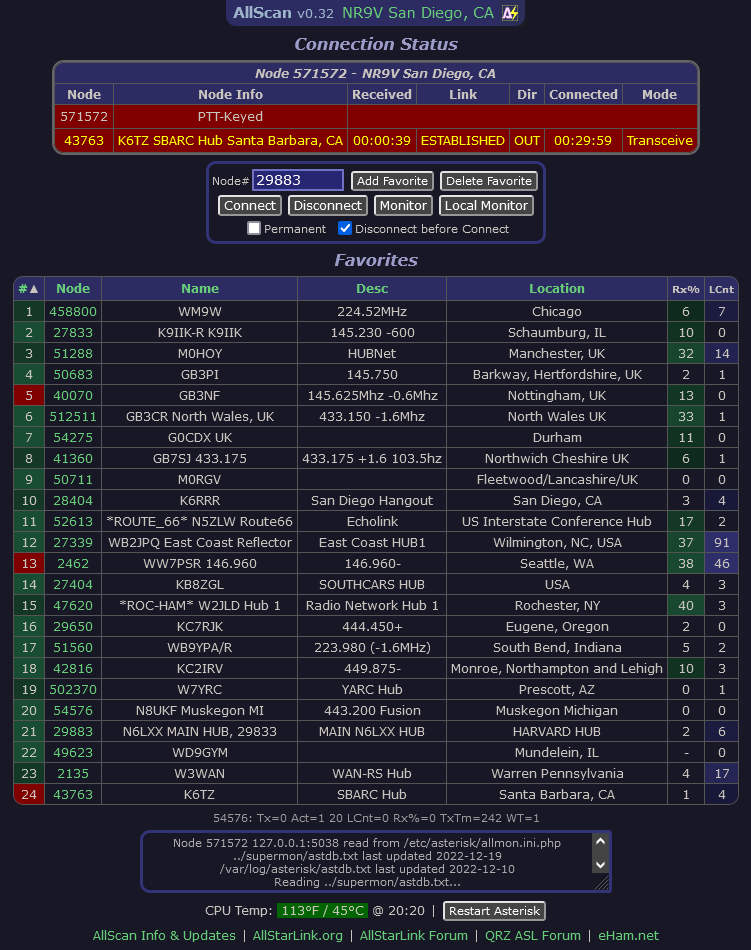
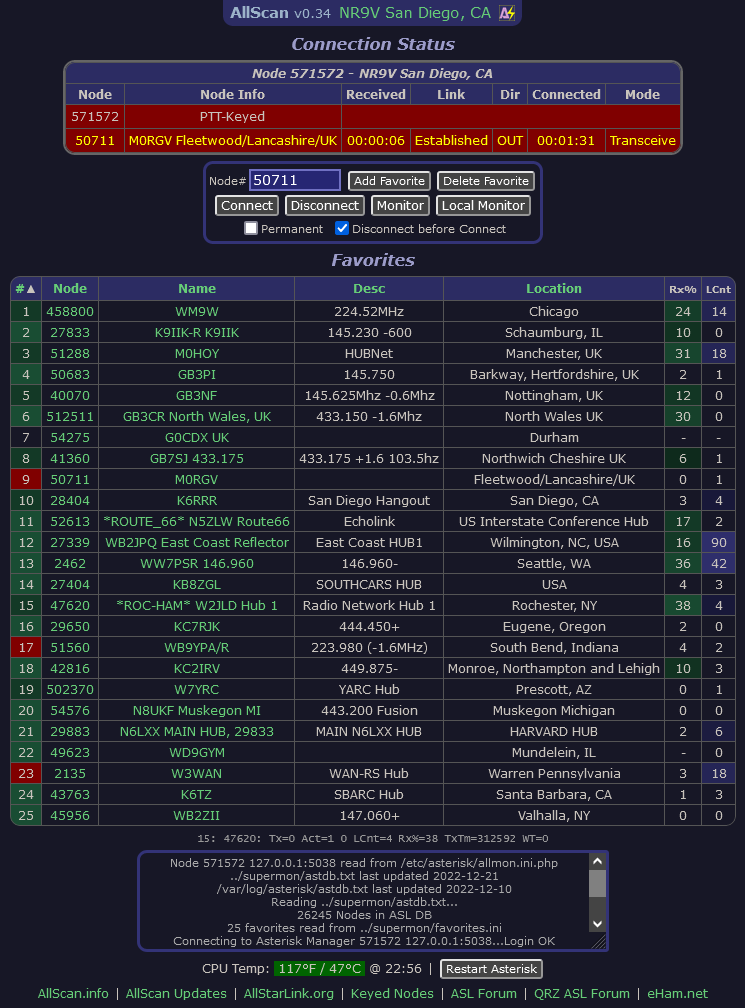
Minor optimizations. Fix issue where column sort links could contain previous post parms.

diff --git a/js/main.js b/js/main.js
@@ -49,7 +49,6 @@ function getStats() {
 			}
 			favsCnt = rnodes.length;
 			if(favsCnt == 0) {
-				//statsTmr = setTimeout(getStats, 15000);
 				return;
 			}
 			if(statsIdx >= favsCnt)
@@ -74,7 +73,7 @@ function xhttpStatsInit(url, parms) {
 function handleStatsResponse() {
 	if(xhs.readyState === 4) {
 		if(xhs.status === 200) {
-			//statMsg('statsResponse: ' + xhs.responseText);
+			// statMsg('statsResponse: ' + xhs.responseText);
 			var resp = JSON.parse(xhs.responseText);
 			// Data structure: event=stats; status=LogMsg; stats=statsStruct
 			var e = resp.event;
@@ -163,7 +162,7 @@ function handleOfflineEvent() {
 	}
 }
 function reloadPage() {
-	// Verify location valid before reloading
+	// Verify location before reload
 	if(rldRetries == 0)
 		statMsg('Verifying node is accessible...');
 	var request = new XMLHttpRequest();

diff --git a/css/main.css b/css/main.css
@@ -149,10 +149,10 @@ width:6em;
 }
 #statmsg {
 display:inline-block;
-margin:3px;
+margin:2px;
 min-width:460px;
 max-width:750px;
-height:4.4em;
+height:4.5em;
 font-size:0.9em;
 line-height:1.2;
 overflow-y:scroll;
@@ -164,6 +164,7 @@ color:#999;
 margin:0.25em;
 font-size:0.9em;
 line-height:1.2;
+font-family:"Lucida Console",Courier,monospace;
 }
 
 table {

diff --git a/index.php b/index.php
@@ -31,6 +31,7 @@ if(!empty($nodes) && !empty($hosts)) {
 	$parms = getRequestParms();
 	if(isset($_POST['Submit']) && $astdb !== false) {
 		processForm($parms, $msg);
+		unset($_POST, $parms);
 	}
 }
 
@@ -47,7 +48,7 @@ if($globalInc) {
 // Output header
 echo 	"<body$onLoad>" . NL
 	.	'<header>' . NL
-	.	$html->a('/allscan/', null, 'AllScan', 'logo') . " <small>$AllScanVersion</small>" . ENSP
+	.	$html->a(getScriptName(), null, 'AllScan', 'logo') . " <small>$AllScanVersion</small>" . ENSP
 	.	$html->a('#', null, $title, 'title') . ENSP
 	.	'<span id="hb"><img src="AllScan.png" width=16 height=16 alt="*"></span>' . NL
 	.	'</header>' . NL . BR;
@@ -192,6 +193,10 @@ if(empty($favList)) {
 		$nodeNumAttr = ['1' => 'class="nodeNum" onClick="setNodeBox(' . $f[1] . ')"'];
 		// Link name to ASL stats page for node
 		$f[2] = $html->a("http://stats.allstarlink.org/stats/" . $f[1], null, $f[2], null, 'stats');
+		if($f[3] == '')
+			$f[3] = '-';
+		if($f[4] == '')
+			$f[4] = '-';
 		$out .= $html->tableRow($f, null, null, false, $nodeNumAttr);
 	}
 	$out .= $html->tableClose();

diff --git a/astapi/server.php b/astapi/server.php
@@ -98,7 +98,7 @@ while(1) {
 			// Array key of remote_nodes is not node number to prevent javascript (for in) sorting
 			$current[$node]['remote_nodes'][$i]['node'] = $arr['node'];
 			$current[$node]['remote_nodes'][$i]['info'] = $arr['info'];
-			$current[$node]['remote_nodes'][$i]['link'] = $arr['link'];
+			$current[$node]['remote_nodes'][$i]['link'] = ucwords(strtolower($arr['link']));
 			$current[$node]['remote_nodes'][$i]['ip'] = $arr['ip'];
 			$current[$node]['remote_nodes'][$i]['direction'] = $arr['direction'];
 			$current[$node]['remote_nodes'][$i]['keyed'] = $arr['keyed'];

diff --git a/stats/stats.php b/stats/stats.php
@@ -40,6 +40,11 @@ foreach($nodes as $n) {
 	}
 	$resp = json_decode($data);
 	$s = parseStats($resp, $time);
+	if(!isset($s->node)) {
+		$s->node = $n;
+		$s->active = $s->keyed = 0;
+		$s->busyPct = $s->linkCnt = $s->txtime = '-';
+	}
 	$time = $s->timeAgo;
 	// Data structure: event=stats; status=LogMsg; stats=statsStruct
 	$msg = "$n: Tx=$s->keyed Act=$s->active $s->timeAgo LCnt=$s->linkCnt Rx%=$s->busyPct TxTm=$s->txtime WT=$s->wt";

diff --git a/include/common.php b/include/common.php
@@ -1,5 +1,5 @@
 <?php
-$AllScanVersion = "v0.34";
+$AllScanVersion = "v0.35";
 require_once('Html.php');
 require_once('logUtils.php');
 

diff --git a/README.md b/README.md
@@ -106,8 +106,11 @@ If you have any questions email chc_media at yahoo dot com. Also see [AllScan.in
 5. Additional stats/scan features
 
 # Release Notes
+**v0.35 2022-12-21**<br>
+Minor optimizations.
+
 **v0.34 2022-12-21**<br>
-Optimize stats request timing to more quickly populate the favorites table after page load, then go to a reduced request rate over time, to reduce the chance of the ASL stats request limit (30 per minute) being exceeded if there are multiple AllScan web clients on a node. Link Favorites table Names text to the ASL stats page for the node. Update JS reload function to prevent POST data being resubmitted after page refresh.
+Optimize stats request timing to more quickly populate the favorites table after page load, then go to a reduced request rate over time, to reduce the chance of the ASL stats request limit (30 per minute) being exceeded if there are multiple AllScan web clients on a node. Link Favorites table Names text to the ASL stats page for the node. Update JS reload function to prevent POST data being resubmitted after page reload.
 
 **v0.33 2022-12-20**<br>
 Add default global.inc file docs/global.inc.sample and give user option to configure and save this to ./global.inc if file was not found in . or ../supermon/. Documentation updates.
